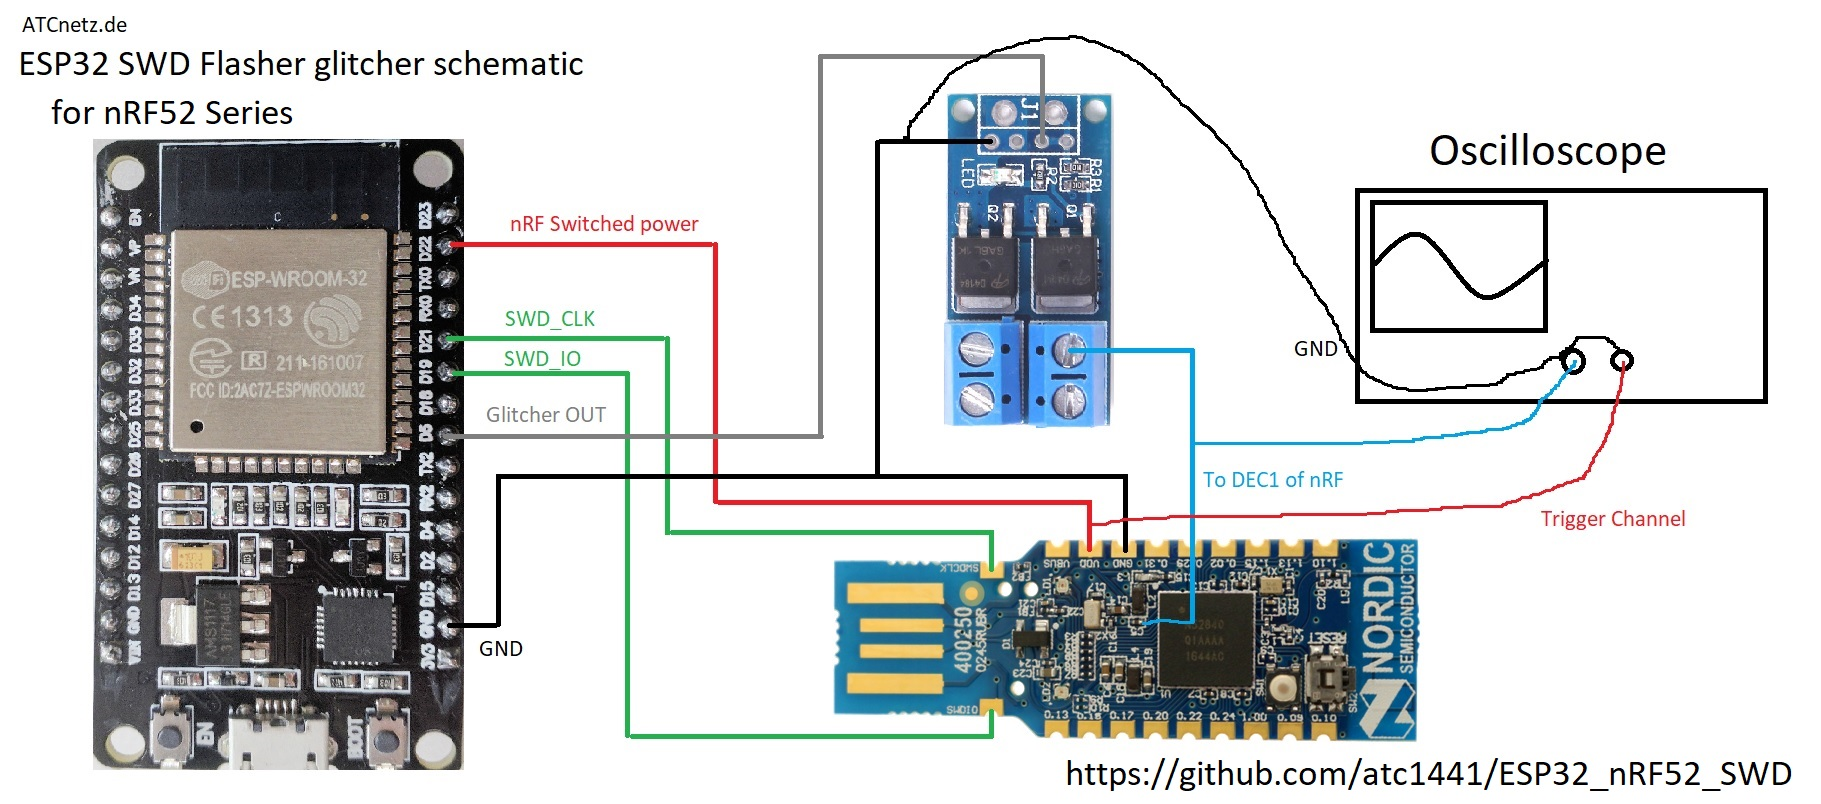
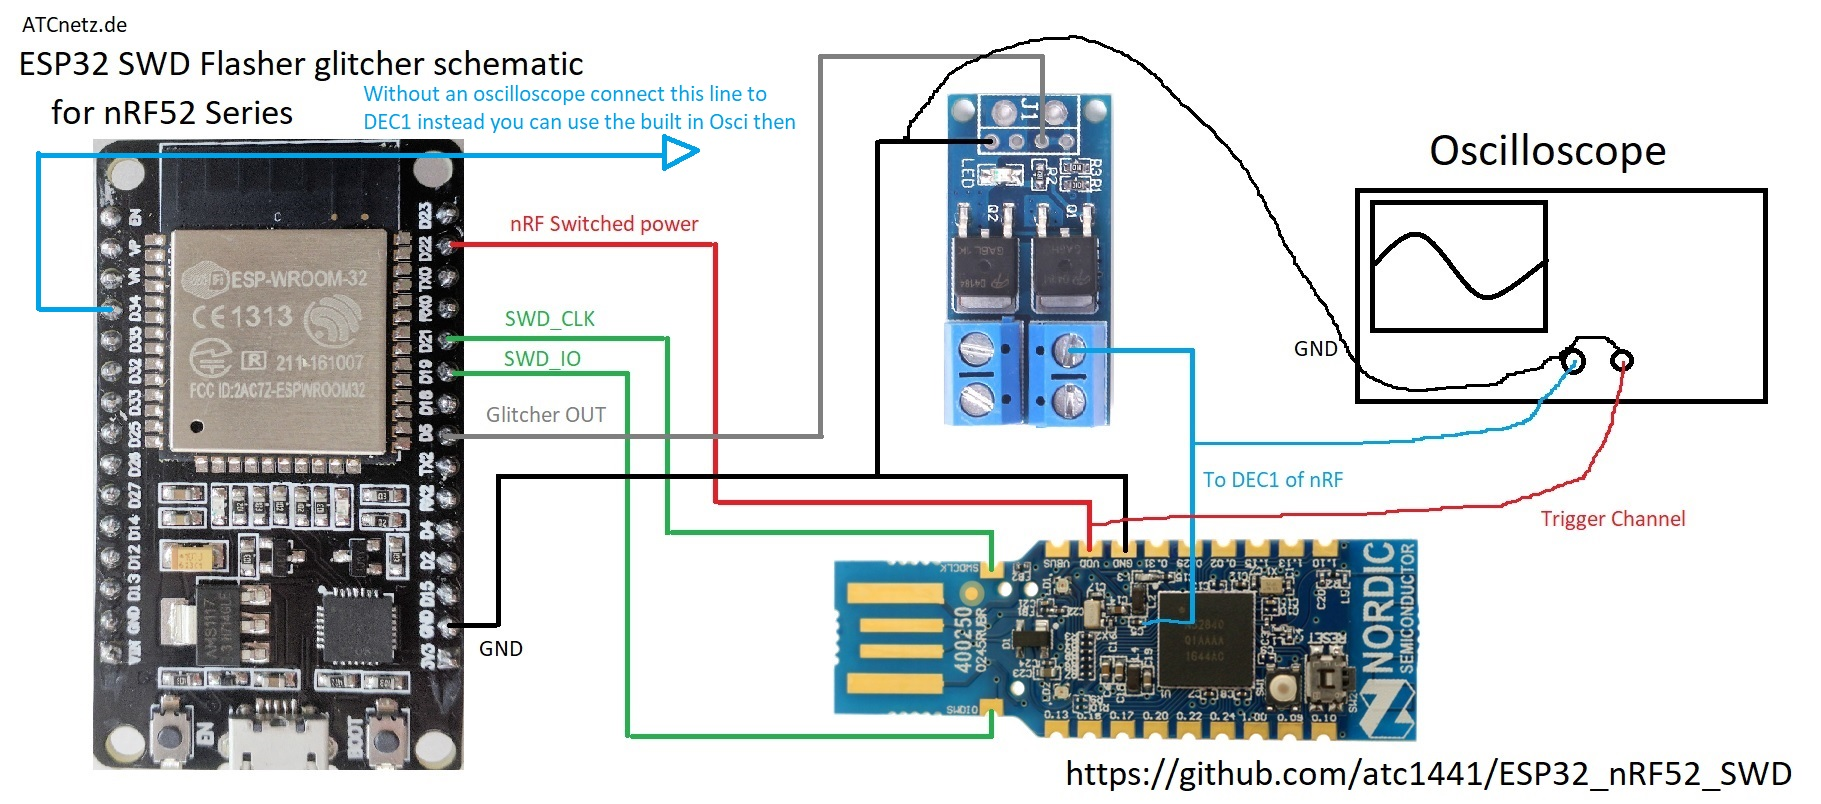
Added software oscilloscope using the ADC from ESP32

Changed region(s): [[0.0, 0.0933, 0.4305, 0.4042]]

diff --git a/data/index.htm b/data/index.htm
@@ -119,10 +119,10 @@
         <br><br>
 
         <label for="flash_uploaded_file">Flash uploaded file</label>
-        <form action="flash_file" method="post" enctype="multipart/form-data" target="flash_uploaded_file">
+        <form action="flash_file_direct" method="post" enctype="multipart/form-data" target="flash_uploaded_file">
             <label for="flash_up_file_offset">Offset 0x</label>
             <input type="text" id="flash_up_file_offset" name="flash_up_file_offset" value="0">
-            <input type="file" id="flash_file" name="flash_file">
+            <input type="file" id="flash_file_direct" name="flash_file_direct">
             <input type="submit" value="Flash uploaded file" name="submit">
         </form>
         <br><br>
@@ -162,6 +162,20 @@
     </section>
 
     <section>
+        <h2>Glitch osci</h2>
+        <label for="graph_time">Time</label>
+        <input type="text" id="graph_time" name="graph_time" value="300">
+        <label for="graph_delay">Delay</label>
+        <input type="text" id="graph_delay" name="graph_delay" value="2000">
+        <button onclick='sendGraph("get_graph?size="+document.getElementById("graph_time").value+"&delay="+document.getElementById("graph_delay").value)'>Get graph</button>
+        <div id="graph">
+          
+           <canvas id="graph_canvas" width="5" height="5" style="border:1px solid #c3c3c3;"></canvas><br>
+          
+        </div>
+    </section>
+
+    <section>
         <h2>Infos</h2>
         This software brings you the possibility to Read and Write the internal Flash of the Nordic nRF52 series with an
         ESP32.<br>
@@ -176,6 +190,39 @@
         const answerDiv = document.getElementById('answer');
         const contentDiv = document.getElementById("content");
         const progressMarker = document.getElementById("dot");
+        
+        
+        //Graph feature
+        const canvas = document.getElementById("graph_canvas");
+        const ctx = canvas.getContext("2d");
+
+        async function sendGraph(url) {
+            try {
+                const resp = await fetch(url, { method: "GET" })
+                let graph_data = await resp.text()
+                    let graph_parts = graph_data.split(',');
+                    graph_parts.pop();
+                    let max_val = Math.max(...graph_parts);
+                    let min_val = Math.min(...graph_parts);
+                    console.log("Max: "+ max_val);
+                    console.log("Min: "+ min_val);
+                    canvas.width = document.getElementById("graph_time").value;
+                    canvas.height = max_val-min_val;
+                    ctx.clearRect(0,0,canvas.width, canvas.height);
+                    ctx.beginPath();
+                    ctx.strokeStyle = 'blue';
+                    ctx.moveTo(0, 0);
+                    for (let i = 1; i < document.getElementById("graph_time").value; i++)
+                    {
+                      ctx.lineTo(i, max_val-graph_parts[i]);
+                      ctx.stroke();
+                    }
+            } catch (err) {
+                console.log("ERROR: " + err)
+            }
+        }
+        //Graph feature end
+
 
         async function send(url) {
             try {
@@ -185,6 +232,7 @@
                 answerDiv.innerHTML = "ERROR: " + err
             }
         }
+
 
         async function send_post(url, data_text) {
             try {

diff --git a/ESP32_SWD_WIFI/web.cpp b/ESP32_SWD_WIFI/web.cpp
@@ -524,6 +524,22 @@ void init_web()
               response->addHeader("Content-Disposition", "attachment; filename=\"flash.bin\"");
               request->send(response);
             });
+            
+  server.on("/get_graph", HTTP_GET, [](AsyncWebServerRequest *request)
+            {
+              if (request->hasParam("size")&&request->hasParam("delay"))
+              {
+              uint32_t size = request->getParam("size")->value().toInt();
+              uint32_t delay_time = request->getParam("delay")->value().toInt();
+              uint16_t graph_buff[size] = {0};
+              get_osci_graph(graph_buff, size,delay_time);
+              String answer_state = "";
+              for(int i =0;i<size;i++){
+                answer_state += String(graph_buff[i]) + ",";
+              }                
+              answer_state += "0";
+              request->send(200, "text/plain", answer_state);
+            }});
 
   server.serveStatic("/", SPIFFS, "/").setDefaultFile("index.htm");
 

diff --git a/ESP32_SWD_WIFI/glitcher.cpp b/ESP32_SWD_WIFI/glitcher.cpp
@@ -11,7 +11,7 @@
 #define delay_inc_step 1
 #define width_inc_step 1
 
-#define delay_max 3000
+#define delay_max 30000
 #define width_max 30
 
 #define delay_start 2000
@@ -117,4 +117,23 @@ bool inc_width()
     return true;
   }
   return false;
+}
+
+void get_osci_graph(uint16_t graph_buff[], uint32_t size, uint32_t delay_time)
+{
+  set_power(LOW);
+  delay(50);
+  set_power(HIGH);
+  long start_micro = micros();
+  bool has_fired = 0;
+  for (int i = 0; i < size; i++)
+  {
+    if (!has_fired && micros() - start_micro > delay_time){
+      has_fired = 1;
+      digitalWrite(GLITCHER, HIGH);
+    graph_buff[i++] = analogRead(OSCI_PIN);
+      digitalWrite(GLITCHER, LOW);
+    }
+    graph_buff[i] = analogRead(OSCI_PIN);
+  }
 }

diff --git a/ESP32_SWD_WIFI/glitcher.h b/ESP32_SWD_WIFI/glitcher.h
@@ -15,3 +15,5 @@ bool inc_delay();
 void set_width(uint32_t width);
 uint32_t get_width();
 bool inc_width();
+
+void get_osci_graph(uint16_t graph_buff[],uint32_t size,uint32_t delay_time);

diff --git a/ESP32_SWD_WIFI/defines.h b/ESP32_SWD_WIFI/defines.h
@@ -8,6 +8,8 @@
 #define GLITCHER 5
 #define NRF_POWER 22
 
+#define OSCI_PIN 34
+
 #define swd_clock_pin 21
 #define swd_data_pin 19
 
